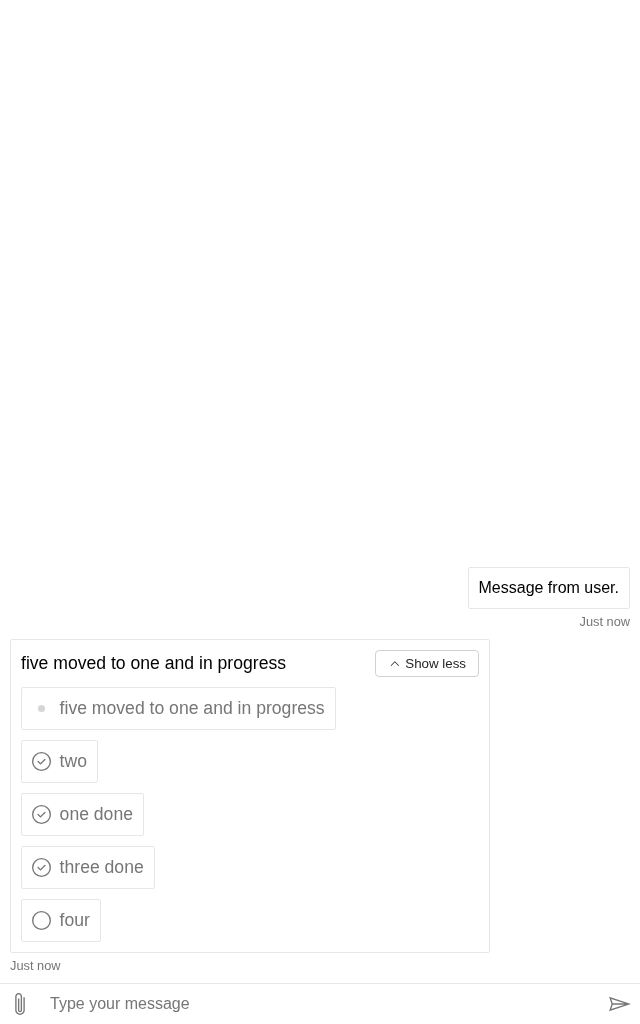
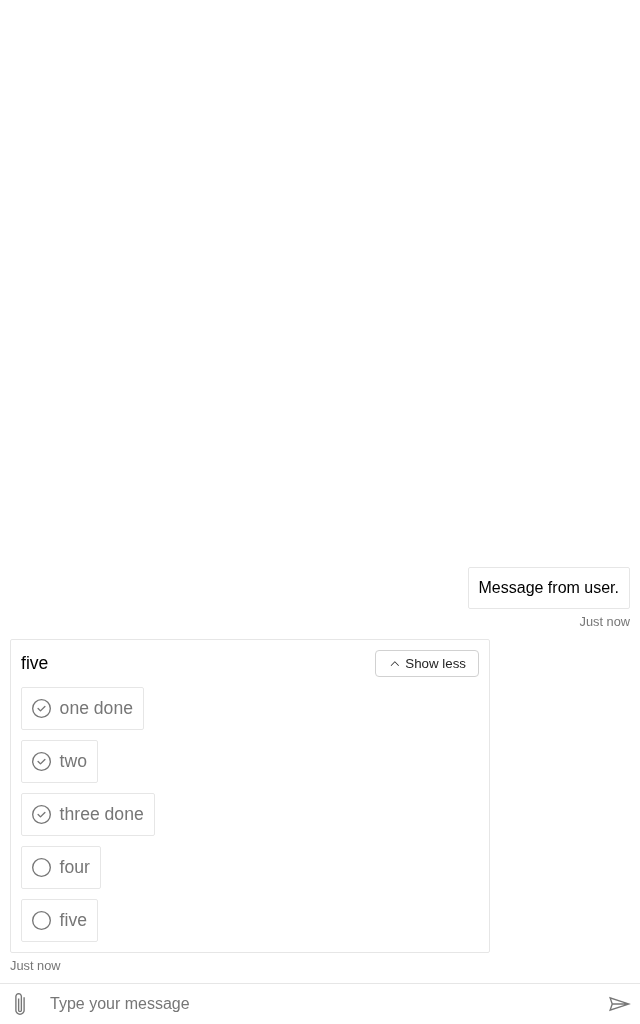
Upsert as-is if no HowTo.position

diff --git a/__tests__/html2/part-grouping/status.html b/__tests__/html2/part-grouping/status.html
@@ -144,7 +144,7 @@
           name: 'Research',
         },
         isPartOf: {
-          '@id': 'h-00001',
+          '@id': '_:h-00001',
           '@type': 'HowTo',
         }
       };
@@ -220,7 +220,9 @@
       directLine.emulateIncomingActivity(withModifiers(activities.at(3), { position: 4, status: undefined, abstract: 'four' }));
       directLine.emulateIncomingActivity(withModifiers(activities.at(4), { position: 5, status: undefined, abstract: 'five' }));
       await pageConditions.numActivitiesShown(6);
+      await host.snapshot('local');
 
+      // Become 1-5-2-3-4.
       directLine.emulateIncomingActivity(withModifiers(activities.at(4), { position: 1, status: 'Incomplete', abstract: 'five moved to one and in progress' }));
 
       // Then: show the activity moved to the new position with a loading indicator
@@ -232,6 +234,7 @@
       directLine.emulateIncomingActivity(withModifiers(activities.at(3), { status: 'Incomplete', abstract: 'four in progress' }));
       await host.snapshot('local');
 
+      // Become 5-2-3-4-1.
       directLine.emulateIncomingActivity(withModifiers(activities.at(0), { position: 3, status: 'Incomplete', abstract: 'one (was done) moved to three and in progress' }));
 
       // Then: show the new item inserted with a loading indicator, and the other items shifted

diff --git a/packages/core/src/reducers/activities/sort/upsert.ts b/packages/core/src/reducers/activities/sort/upsert.ts
@@ -135,14 +135,20 @@ function upsert(ponyfill: Pick<GlobalScopePonyfill, 'Date'>, state: State, activ
         )
       : nextPartList.findIndex(entry => entry.type === 'activity' && entry.activityInternalId === activityInternalId);
 
-    ~existingPartEntryIndex && nextPartList.splice(existingPartEntryIndex, 1);
+    const nextPartEntry = Object.freeze({ ...sortedChatHistoryListEntry, position: howToGroupingPosition });
 
-    nextPartList = insertSorted(
-      nextPartList,
-      Object.freeze({ ...sortedChatHistoryListEntry, position: howToGroupingPosition }),
-      // eslint-disable-next-line no-magic-numbers
-      ({ position: x }, { position: y }) => (typeof x === 'undefined' || typeof y === 'undefined' ? -1 : x - y)
-    );
+    if (~existingPartEntryIndex && typeof howToGroupingPosition === 'undefined') {
+      nextPartList[+existingPartEntryIndex] = nextPartEntry;
+    } else {
+      ~existingPartEntryIndex && nextPartList.splice(existingPartEntryIndex, 1);
+
+      nextPartList = insertSorted(
+        nextPartList,
+        nextPartEntry,
+        // eslint-disable-next-line no-magic-numbers
+        ({ position: x }, { position: y }) => (typeof x === 'undefined' || typeof y === 'undefined' ? -1 : x - y)
+      );
+    }
 
     nextHowToGroupingMap.set(
       howToGroupingId,
